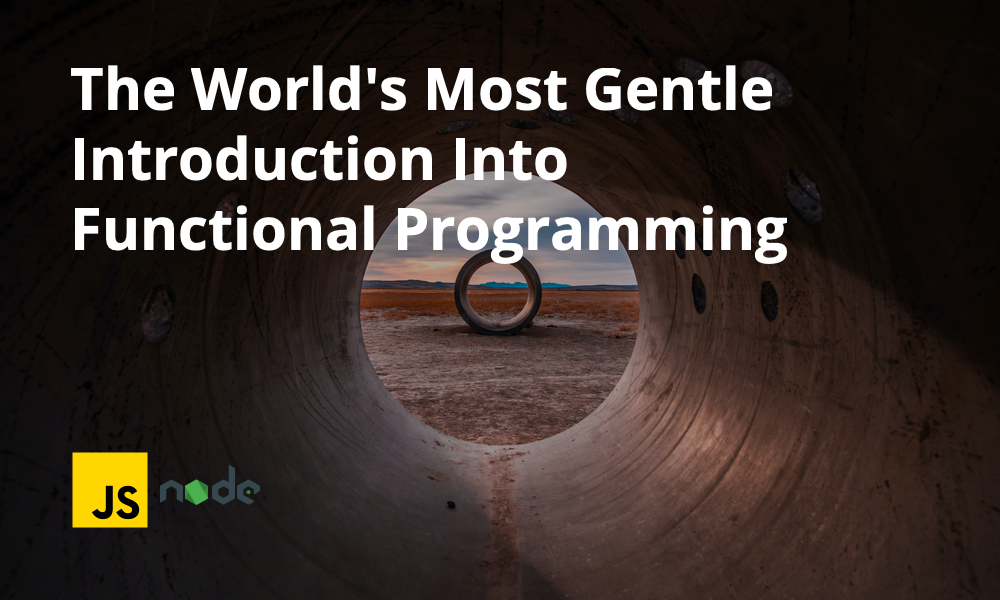
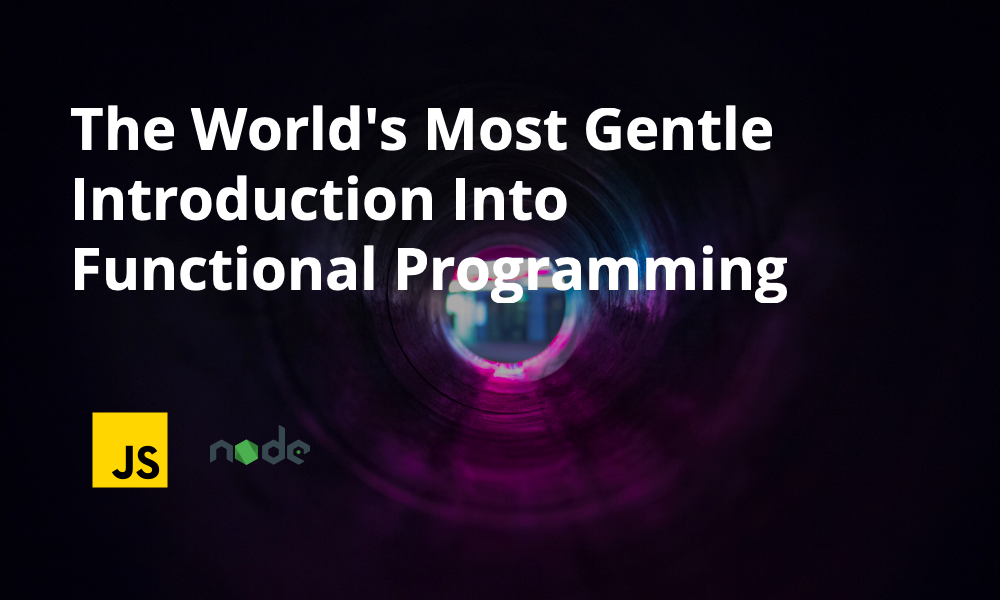
feat: Update the new image for the blog

diff --git a/bin/generate-heading-image.js b/bin/generate-heading-image.js
@@ -38,7 +38,8 @@ const generateText = text => {
    * @param {*} index
    */
   const generateTextBlock = (textBlock, index) => `<text x="10" y="${70 *
-    index}" font-size="58" fill="#fff" font-family="Open Sans" font-weight="700">
+    index +
+    40}" font-size="58" fill="#fff" font-family="Open Sans" font-weight="700">
     ${textBlock}
   </text>`
 
@@ -133,11 +134,11 @@ const combineAllImages = () => {
 
   console.log("icons", icons)
   const iconsToMerge = icons.map((icon, index) => {
-    let displacement = index * 100 + index * 20 + 40
+    let displacement = index * 100 + index * 30 + 80
 
-    if (displacement < 60) displacement = 60
+    if (displacement < 80) displacement = 80
 
-    return { src: `./icons/${icon}.png`, x: displacement, y: IMG_HEIGHT - 160 }
+    return { src: `./icons/${icon}.png`, x: displacement, y: IMG_HEIGHT - 200 }
   })
 
   console.log(iconsToMerge)

diff --git a/content/blog/2020-07-10-understand-pipe-and-compose-by-implementing-them.md b/content/blog/2020-07-10-understand-pipe-and-compose-by-implementing-them.md
@@ -614,4 +614,4 @@ Next time, we will take this curse head out and come out victorious!
 4. [Completed project](https://github.com/okeeffed/build-your-own-pipe-compose)
 5. [4 properties of functional programming](https://docs.dennisokeeffe.com/manual-functional-programming-hardcore-fp-in-java-script-v2#properties-of-fp)
 
-_Image credit: [Patrick Hendry](https://unsplash.com/@worldsbetweenlines)_
+_Image credit: [Fabian Jung](https://unsplash.com/@errior)_
